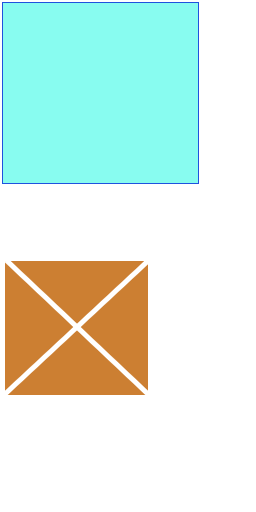
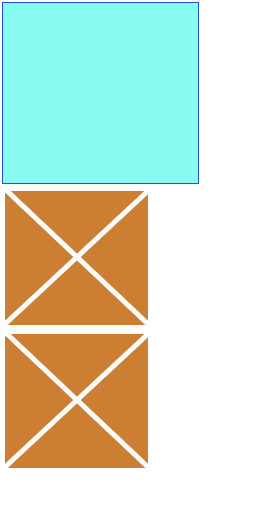
its 12:14 am im not doing the patch notes

Changed region(s): [[0.0, 0.375, 0.5938, 0.9375]]

diff --git a/index.html b/index.html
@@ -52,19 +52,77 @@
 	
 	<div class="row">
 		<div class="col-md-12">
-			<div class="jumbotron">
-	
-				<h4>
-					Hello there! Welcome to QIR Games! 
-				</h4>
-				<p>
-					This is my website that is being actively worked on. On this website, I will post the games that I make. New content in the form of updates, new games, and other additions will be added in the future so check back in to see what's new, Enjoy!  
-					</br>
+		
+			<div class="carousel slide" id="carousel-12564">
+				<ol class="carousel-indicators">
+					<li data-slide-to="0" data-target="#carousel-12564" class="active">
+					</li>
+					<li data-slide-to="1" data-target="#carousel-12564">
+					</li>
+					<li data-slide-to="2" data-target="#carousel-12564">
+					</li>
+				</ol>
+				<div class="carousel-inner"> <!-- 1st game -->
+					<div class="carousel-item active">
+						<img class="d-block w-30" alt="Carousel Bootstrap First" src="images/indexGoulPic.png" height = "300px">
+						<div class="carousel-caption">
+							<h4>
+								<a  style="color:white;" href="Goul Shooter/index.html"target="Goul">Goul shooter</a>
+  
+  
+							</h4>
+							<p>
+								
+							</p>
+						</div>
+					</div>
+					<div class="carousel-item"> <!-- 2nd game -->
+						<img class="d-block w-50" alt="Carousel Bootstrap Second" src="images/GalWarsFrontPic.png" height = "300px" />
+						<div class="carousel-caption">
+							<h4>
+								 <a style="color:white;" href="Galactic Wars/index.html" target="Galactic" >Galactic Wars</a>
+							</h4>
+							<p>
+								
+							</p>
+						</div>
+					</div>
+					<div class="carousel-item"><!-- 3rd game -->
+						<img class="d-block w-20" alt="Carousel Bootstrap Third" src="images/Blockzscreen.png" height = "300px" />
+						<div class="carousel-caption">
+							<h4>
+								<a style="color:white;" href="Blockz/index.html"target="Blockz">Blockz</a>
+							</h4>
+							<p>
+								
+							</p>
+						</div>
+					</div>
+					<div class="carousel-item"><!-- 4th game -->
+						<img class="d-block w-20" alt="Carousel Bootstrap Third" src="images/SticksandStones thumnail.png" height= "300px" >
+						<div class="carousel-caption">
+							<h4>
+								
+								<a style="color:white;" href="SticksandStones/index.html" target="Stones">SticksandStones</a>
+							</h4>
+							<p>
+								
+							</p>
+						</div>
+					</div>
+					<!--0<div class="carousel-item"><!-- 5th game 
+						<img class="d-block w-50" alt="Carousel Bootstrap Third" src="image/" />
+						<div class="carousel-caption">
+							<h4>
+								Maze
+							</h4>
+							<p>
+								
+							</p>
+						</div>
+					</div>-->
 					
-				</p>
-				<p>
-					<!--<a class="btn btn-primary btn-large" href="#">Learn more</a> -->
-				</p>
+				</div> <a class="carousel-control-prev" href="#carousel-12564" data-slide="prev"><span class="carousel-control-prev-icon"></span> <span class="sr-only">Previous</span></a> <a class="carousel-control-next" href="#carousel-12564" data-slide="next"><span class="carousel-control-next-icon"></span> <span class="sr-only">Next</span></a>
 			</div>
 		</div>
 	</div>
@@ -163,7 +221,7 @@
 				<ul>
 						Future updates:
 					 
-					 <li> Game #5 - It's been a long while since I've worked on releasing a new game, but no more. I'm thinking that Game #5 is going to be a Maze game where your goal is to solve puzzles and  avoid enemies. Game #5 has reached its development stage. Public beta is now out for you to play! <a href="MazePuzzel/index.html" target="MAZE DEMO">Game #5 demo</a>.
+					 <li> Game #5 - It's been a long while since I've worked on releasing a new game, but no more. I'm thinking that Game #5 is going to be a Maze game where your goal is to solve puzzles and  avoid enemies. Game #5 has reached its development stage. Public beta is now out for you to play! (updated to fix certain game braking bugs)  <a href="MazePuzzel/index.html" target="MAZE DEMO">Game #5 demo</a>.
 					 <li>Website formatting and design improvements where necessary.
 				</ul>
 			</p>
@@ -189,3 +247,17 @@
     <script src="js/scripts.js"></script>
   </body>
 </html>
+<!--<div class="jumbotron">
+	
+				<h4>
+					Hello there! Welcome to QIR Games! 
+				</h4>
+				<p>
+					This is my website that is being actively worked on. On this website, I will post the games that I make. New content in the form of updates, new games, and other additions will be added in the future so check back in to see what's new, Enjoy!  
+					</br>
+					
+				</p>
+				<p>
+					<a class="btn btn-primary btn-large" href="#">Learn more</a>
+				</p>
+			</div> -->

diff --git a/MazePuzzel/scripts/c3runtime.js b/MazePuzzel/scripts/c3runtime.js
@@ -2964,6 +2964,7 @@ inst._targetY]}getGridTargetPosition(){const inst=map.get(this);return[inst._tar
 		C3.Plugins.Text,
 		C3.Plugins.System.Cnds.OnLayoutStart,
 		C3.Plugins.Text.Acts.SetText,
+		C3.Plugins.Sprite.Acts.SetVisible,
 		C3.Plugins.Keyboard.Cnds.OnAnyKey,
 		C3.Plugins.Text.Acts.SetVisible,
 		C3.Behaviors.EightDir.Cnds.IsMoving,
@@ -2972,13 +2973,15 @@ inst._targetY]}getGridTargetPosition(){const inst=map.get(this);return[inst._tar
 		C3.Plugins.shadowlight.Acts.SetPos,
 		C3.Plugins.Sprite.Exps.X,
 		C3.Plugins.Sprite.Exps.Y,
-		C3.Plugins.Keyboard.Cnds.OnKey,
 		C3.Plugins.Sprite.Acts.SetPos,
+		C3.Plugins.System.Cnds.CompareVar,
+		C3.Plugins.Keyboard.Cnds.OnKey,
 		C3.Plugins.Sprite.Cnds.OnCollision,
 		C3.Plugins.Sprite.Acts.Destroy,
 		C3.Behaviors.LOS.Cnds.HasLOSToObject,
 		C3.Plugins.Sprite.Acts.SetDefaultColor,
-		C3.Behaviors.TileMovement.Acts.SetEnabled
+		C3.Plugins.Sprite.Cnds.IsOverlapping,
+		C3.Plugins.System.Acts.AddVar
 		];
 	};
 	self.C3_JsPropNameTable = [
@@ -2988,7 +2991,7 @@ inst._targetY]}getGridTargetPosition(){const inst=map.get(this);return[inst._tar
 		{ScrollTo: 0},
 		{LineOfSight: 0},
 		{Adventurer: 0},
-		{Sprite: 0},
+		{background: 0},
 		{ShadowCaster: 0},
 		{wall: 0},
 		{ShadowLight: 0},
@@ -2998,7 +3001,14 @@ inst._targetY]}getGridTargetPosition(){const inst=map.get(this);return[inst._tar
 		{Keyboard: 0},
 		{invisbox: 0},
 		{escape: 0},
-		{Text: 0}
+		{Text: 0},
+		{key: 0},
+		{boxbox: 0},
+		{movableBox2: 0},
+		{Button1: 0},
+		{Sprite: 0},
+		{Sprite2: 0},
+		{unlocker: 0}
 	];
 }
 
@@ -3106,11 +3116,13 @@ inst._targetY]}getGridTargetPosition(){const inst=map.get(this);return[inst._tar
 			const n0 = p._GetNode(0);
 			return () => n0.ExpObject();
 		},
+		() => 3,
 		() => 1644,
 		() => 153,
 		() => 0,
 		() => -281492157629439,
 		() => -1023,
+		() => 1,
 		() => "Congratulations! You've escaped! Thank you for playing the Demo."
 	];
 }

diff --git a/page1.html b/page1.html
@@ -144,7 +144,7 @@ for (i = 0; i < coll.length; i++) {
 			 <img alt="Blockz image screen" src="images/Blockzscreen.png" height = "300px" /> 
 
 			 <h5> 
-			 In Blockz the goal is to not let any of the blocks touch the ground. Be careful to not hit the Purple death blocks or it's Game Over! Conserve your Ammunition because when you need to you press "D" to delete the bullets currently on screen to save yourself from hitting one of the purple death blocks. This is still a work in progress game and will be expanded on in future updates.
+			 In Blockz the goal is to not let any of the blocks touch the ground. Be careful to not hit the Purple death blocks or it's Game Over! Conserve your Ammunition because when you need to you press "D" to delete the bullets currently on screen to save yourself from hitting one of the purple death blocks.
             </h5>			 
 		</div>
 		<div class="col-md-4" style = "border: 4px double red;" >
